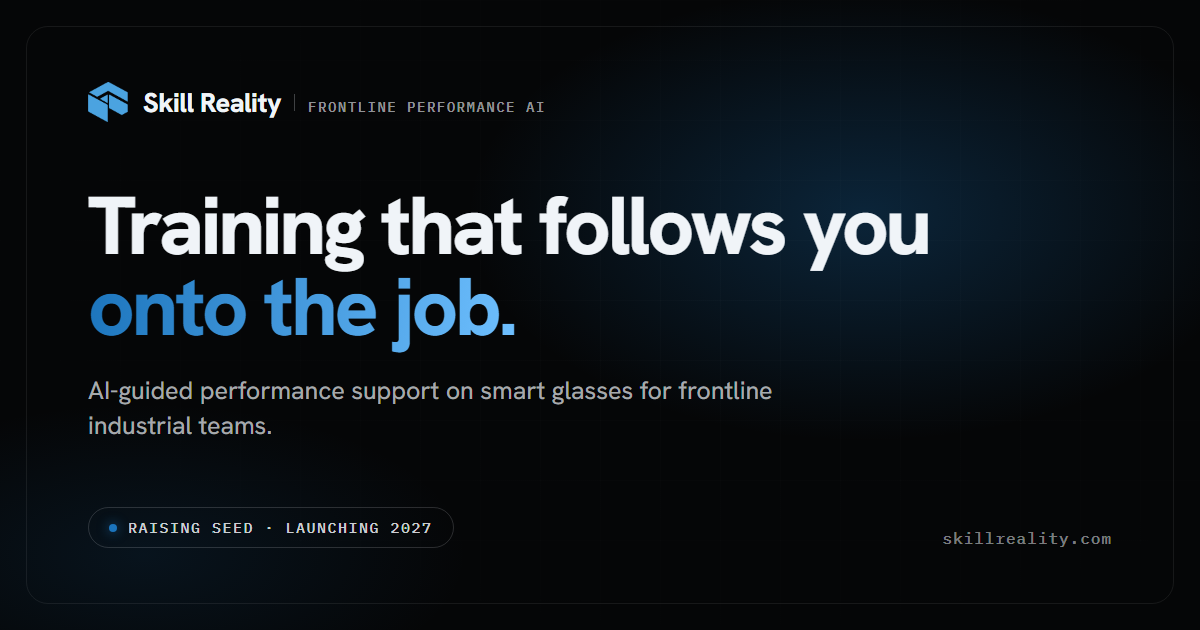
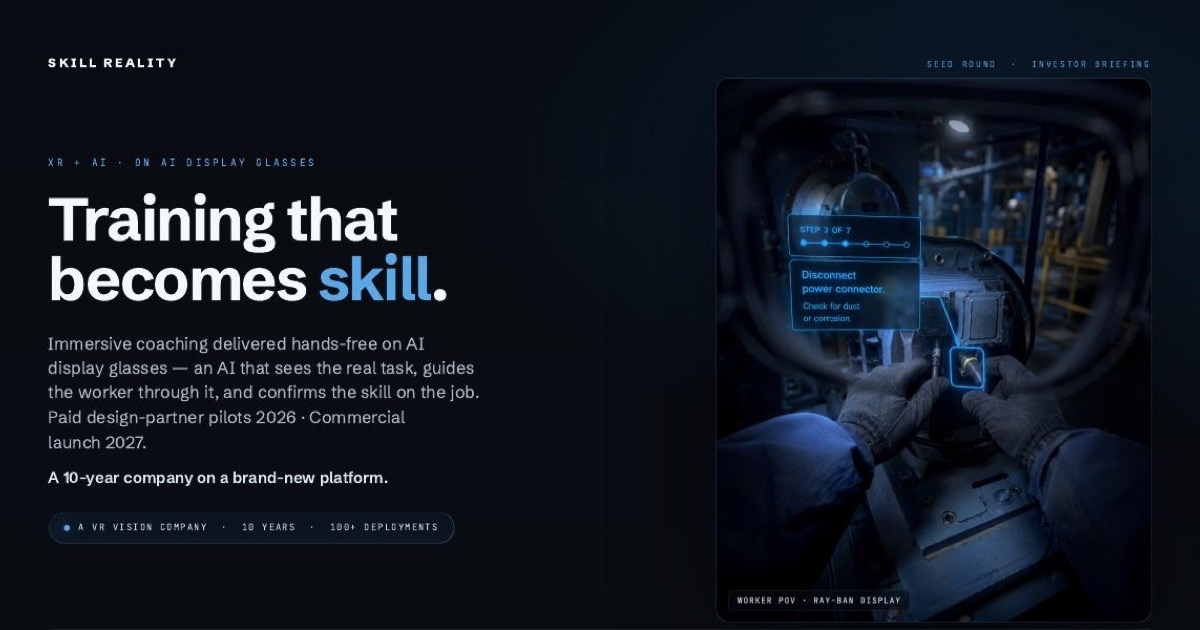
Sync site messaging to the finalized seed deck
Hero, problem, shift, how-it-works (SEES/GUIDES/CONFIRMS), why-now,
working-prototype (/demo-cc-syrup), proof + heritage (VR Vision client
attribution), 4-phase roadmap, team, and investor CTA now match the deck.
Removes all stale/confidential copy ($3.5M raise, use-of-funds split,
"Launching 2027", old tagline); market context limited to the analyst TAM
line. Regenerates deck-cover.jpg and og-card.png from the new deck cover
and updates SEO/OG meta to the new positioning.

diff --git a/api/request-deck.js b/api/request-deck.js
@@ -96,7 +96,7 @@ export default async function handler(req, res) {
               <!-- intro -->
               <tr><td style="padding:26px 8px 0;font-size:16px;line-height:1.6;color:#0d1218">Thanks for your interest — here's the investor deck.</td></tr>
               <!-- proof line -->
-              <tr><td style="padding:12px 8px 0;font-size:14px;line-height:1.6;color:#6b7280">10 years of enterprise VR training. 100+ deployments for Toyota, Siemens, and Coca-Cola.</td></tr>
+              <tr><td style="padding:12px 8px 0;font-size:14px;line-height:1.6;color:#6b7280">A 10-year company on a brand-new platform. 100+ deployments for VR Vision clients including Toyota, Siemens, and Coca-Cola.</td></tr>
               <!-- deck cover, full width, rounded, linked to the deck -->
               <tr><td style="padding:26px 8px 0">
                 <a href="${deckUrl}" style="display:block;text-decoration:none">
@@ -116,7 +116,7 @@ export default async function handler(req, res) {
               </td></tr>
               <!-- footer -->
               <tr><td style="padding:28px 8px 0"><div style="height:1px;line-height:1px;font-size:0;background:#e6e9ee">&nbsp;</div></td></tr>
-              <tr><td style="padding:16px 8px 0;font-size:12.5px;line-height:1.5;color:#8a94a6">Skill Reality · skillreality.com · Raising seed · Launching 2027</td></tr>
+              <tr><td style="padding:16px 8px 0;font-size:12.5px;line-height:1.5;color:#8a94a6">Skill Reality · skillreality.com · Raising our seed round · Pilots 2026 · Commercial launch 2027</td></tr>
             </table>
           </td></tr>
         </table>`,